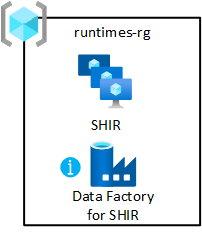
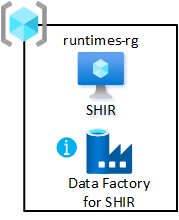
Update for shared runtimes

Changed region(s): [[0.0, 0.0, 1.0, 0.9818]]

diff --git a/docs/scenarios/cloud-scale-analytics/architectures/data-landing-zone.md b/docs/scenarios/cloud-scale-analytics/architectures/data-landing-zone.md
@@ -3,7 +3,7 @@ title: Data landing zones
 description: Learn about cloud-scale analytics architecture data landing zones in Azure.
 author: mboswell
 ms.author: mboswell
-ms.date: 04/11/2022
+ms.date: 10/06/2023
 ms.topic: conceptual
 ms.custom: e2e-data-management, think-tank
 ---
@@ -119,14 +119,13 @@ Your data application teams request these storage blobs. Their requests are then
 
 ### Shared integration runtimes
 
-Deploy a virtual machine scale set with self-hosted integration runtimes into your data landing zone. Host it in the shared integration resource group. This deployment lets you rapidly onboard data products to your data landing zone.
+Deploy a virtual machine with a self-hosted integration runtimes into your data landing zone. Host it in the shared integration resource group. This deployment lets you rapidly onboard data products to your data landing zone.
 
 :::image type="content" source="../images/data-landing-zone-shared-integration-rg.png" alt-text="Diagram of a data landing zone shared integration resource group.":::
 
 To enable the resource group:
 
 - Create at least one Azure Data Factory in your data landing zone's shared integration resource group. Use it only for linking the shared self-hosted integration runtime, not for data pipelines.
-- Create a [shared image for the Azure virtual machine scale set](/azure/virtual-machine-scale-sets/tutorial-use-custom-image-powershell) with a self-hosted integration runtime configured.
 - Set up the self hosted integration runtimes in [high availability mode](/azure/data-factory/create-self-hosted-integration-runtime#high-availability-and-scalability).
 - Associate the self-hosted integration runtimes with Azure data factories in your data landing zone(s).
 - Set up Azure Automation to [periodically update the self hosted integration runtime](/azure/data-factory/self-hosted-integration-runtime-automation-scripts).
